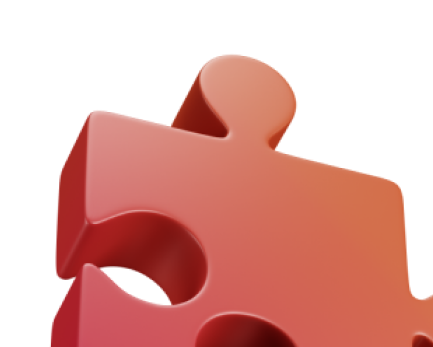
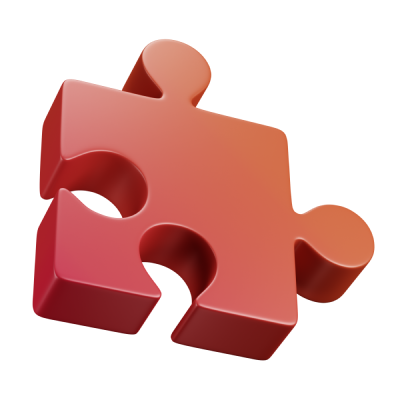
commit

diff --git a/src/index.css b/src/index.css
@@ -82,42 +82,28 @@ thead {
 }
 
 .work-bg {
-  background: #e35467 url(./assets/images/texture-bg.png);
-  background-repeat: no-repeat;
-  background-position: center;
+  background: #e35467 url(./assets/images/texture-bg.png) center no-repeat;
   background-size: cover;
 }
 
 .locationPin {
-  background-image: url(./assets/images/locationPin.png);
-  background-position-x: 0;
-  background-repeat: no-repeat;
+  background: url(./assets/images/locationPin.png) no-repeat;
 }
 
 .megaphone {
-  background-image: url(./assets/images/Megaphone.png);
+  background: url(./assets/images/Megaphone.png) 50px 70px no-repeat;
   background-size: 240px;
-  background-position: 50px 70px;
-  background-repeat: no-repeat;
 }
 
 .puzzle {
-  background-image: url('https://s3-alpha-sig.figma.com/img/5f02/8540/fb8220f0280649c3fc7b43eb79aaf529?Expires=1705881600&Key-Pair-Id=APKAQ4GOSFWCVNEHN3O4&Signature=Fd4tPrABs2qdNzrQiP2iE1n9E1oDkgpgcXeajoGm7C7vyF~Bf1CjsKkjzukcFm2iA6RMQv-oTZivmhFoe8O3f47igDfWbQLgr96mJpgPuw6Pj1Isn0X6RnpXUhepbUn~7MGmDbXaVhuBE75p2hWZ5DmaVcmrvinb-QroxP0Bslu49aCnlK-bgjno3tbZTMyuDHETooCnlWcC9bD1DoGyrBN-nwvg7dn4nDM2Icxwrs6rUfVl2GnL76uYsMcZE4MRtdvdLS~ajiesVLXMQKdiF7KuXlR~F4jy~IEIiNX5k66m4agXdAu7vAfkJVO1M3tyyh3WFzLL~2JJnB0Ul5Uq~w__');
-  background-position: 50px 20px;
-  background-repeat: no-repeat;
+  background: url(./assets/images/puzzle.png) 50px 20px no-repeat;
 }
 
 .tailored-matching {
-  background-image: url('https://s3-alpha-sig.figma.com/img/e372/1edb/3fb6cd7c8010e9611ae857025d47011c?Expires=1705881600&Key-Pair-Id=APKAQ4GOSFWCVNEHN3O4&Signature=RLsF4QuIe2dKfkGkuHmgArj50lVVlv47aYKlahwJx5z4XzYMIAXlHTdC7CcRlimmf5ETQ-5H906bm01KZkks4ujabDi9b3uICA9jIOe5IpdhEFKelT2U6SHVoXhlH~f-WOfUGE5C8IiCX3H8TAy8giaGBGYIqF2Lhg2OLreduaK8Ni4vW6r7PX2WSlxlZ6BUL5WzBiQigSP7poAqGDgOd18-ti1kKGGTQQ81vRLbi5kPV~esLjIOZ9HjPMm82ayhRbAClifLGGkYljD0SGvPWvguNs3PTBomlvh4MP2Z85nICRGCljmcnVYuPSzwyTNOl3hf5zLo~MXmeyx7F2DEbQ__');
-
-  background-position: center;
+  background: url(./assets/images/thumbsUp.png) center no-repeat;
   background-size: cover;
-  background-repeat: no-repeat;
 }
 .exclusiveEarly {
-  background-image: url('https://s3-alpha-sig.figma.com/img/b73f/1346/ef6607b9bca29762a2132813fd41650c?Expires=1705881600&Key-Pair-Id=APKAQ4GOSFWCVNEHN3O4&Signature=adiryUvQZL684m31cbrg1QNxUWV5tO6w4qSiWqXs2vCMwKA7kvbRnsTrjubvxTDHUtMRVfyvmVgzY0GrfeP95GknR5EK2LTXtOqoqTkCOosUvPVJeK2~OTBjVzcHNrAyPpXfvz2VOBUgTEMQjpCMSDuxr6wkmRa3V7MBUZZ-TOov3O~FyG45n4taNuzxkwJBrB~PvlNcjf6bgqZpOO-UXIvM0oSJskyfwBOfxWcwOHQ9gGzC7Dwb0dKV6ajEEZhLeJBr26j7CxJVNr69jlinG06g8ubKQaHBgTC1KwH7ZKsHpmA-TbaXInESBfi4fGiMMamYxF8VFntaxveujB47qQ__');
-
-  background-position: center;
+  background: url(./assets/images/packlock.png) center no-repeat;
   background-size: cover;
-  background-repeat: no-repeat;
 }
